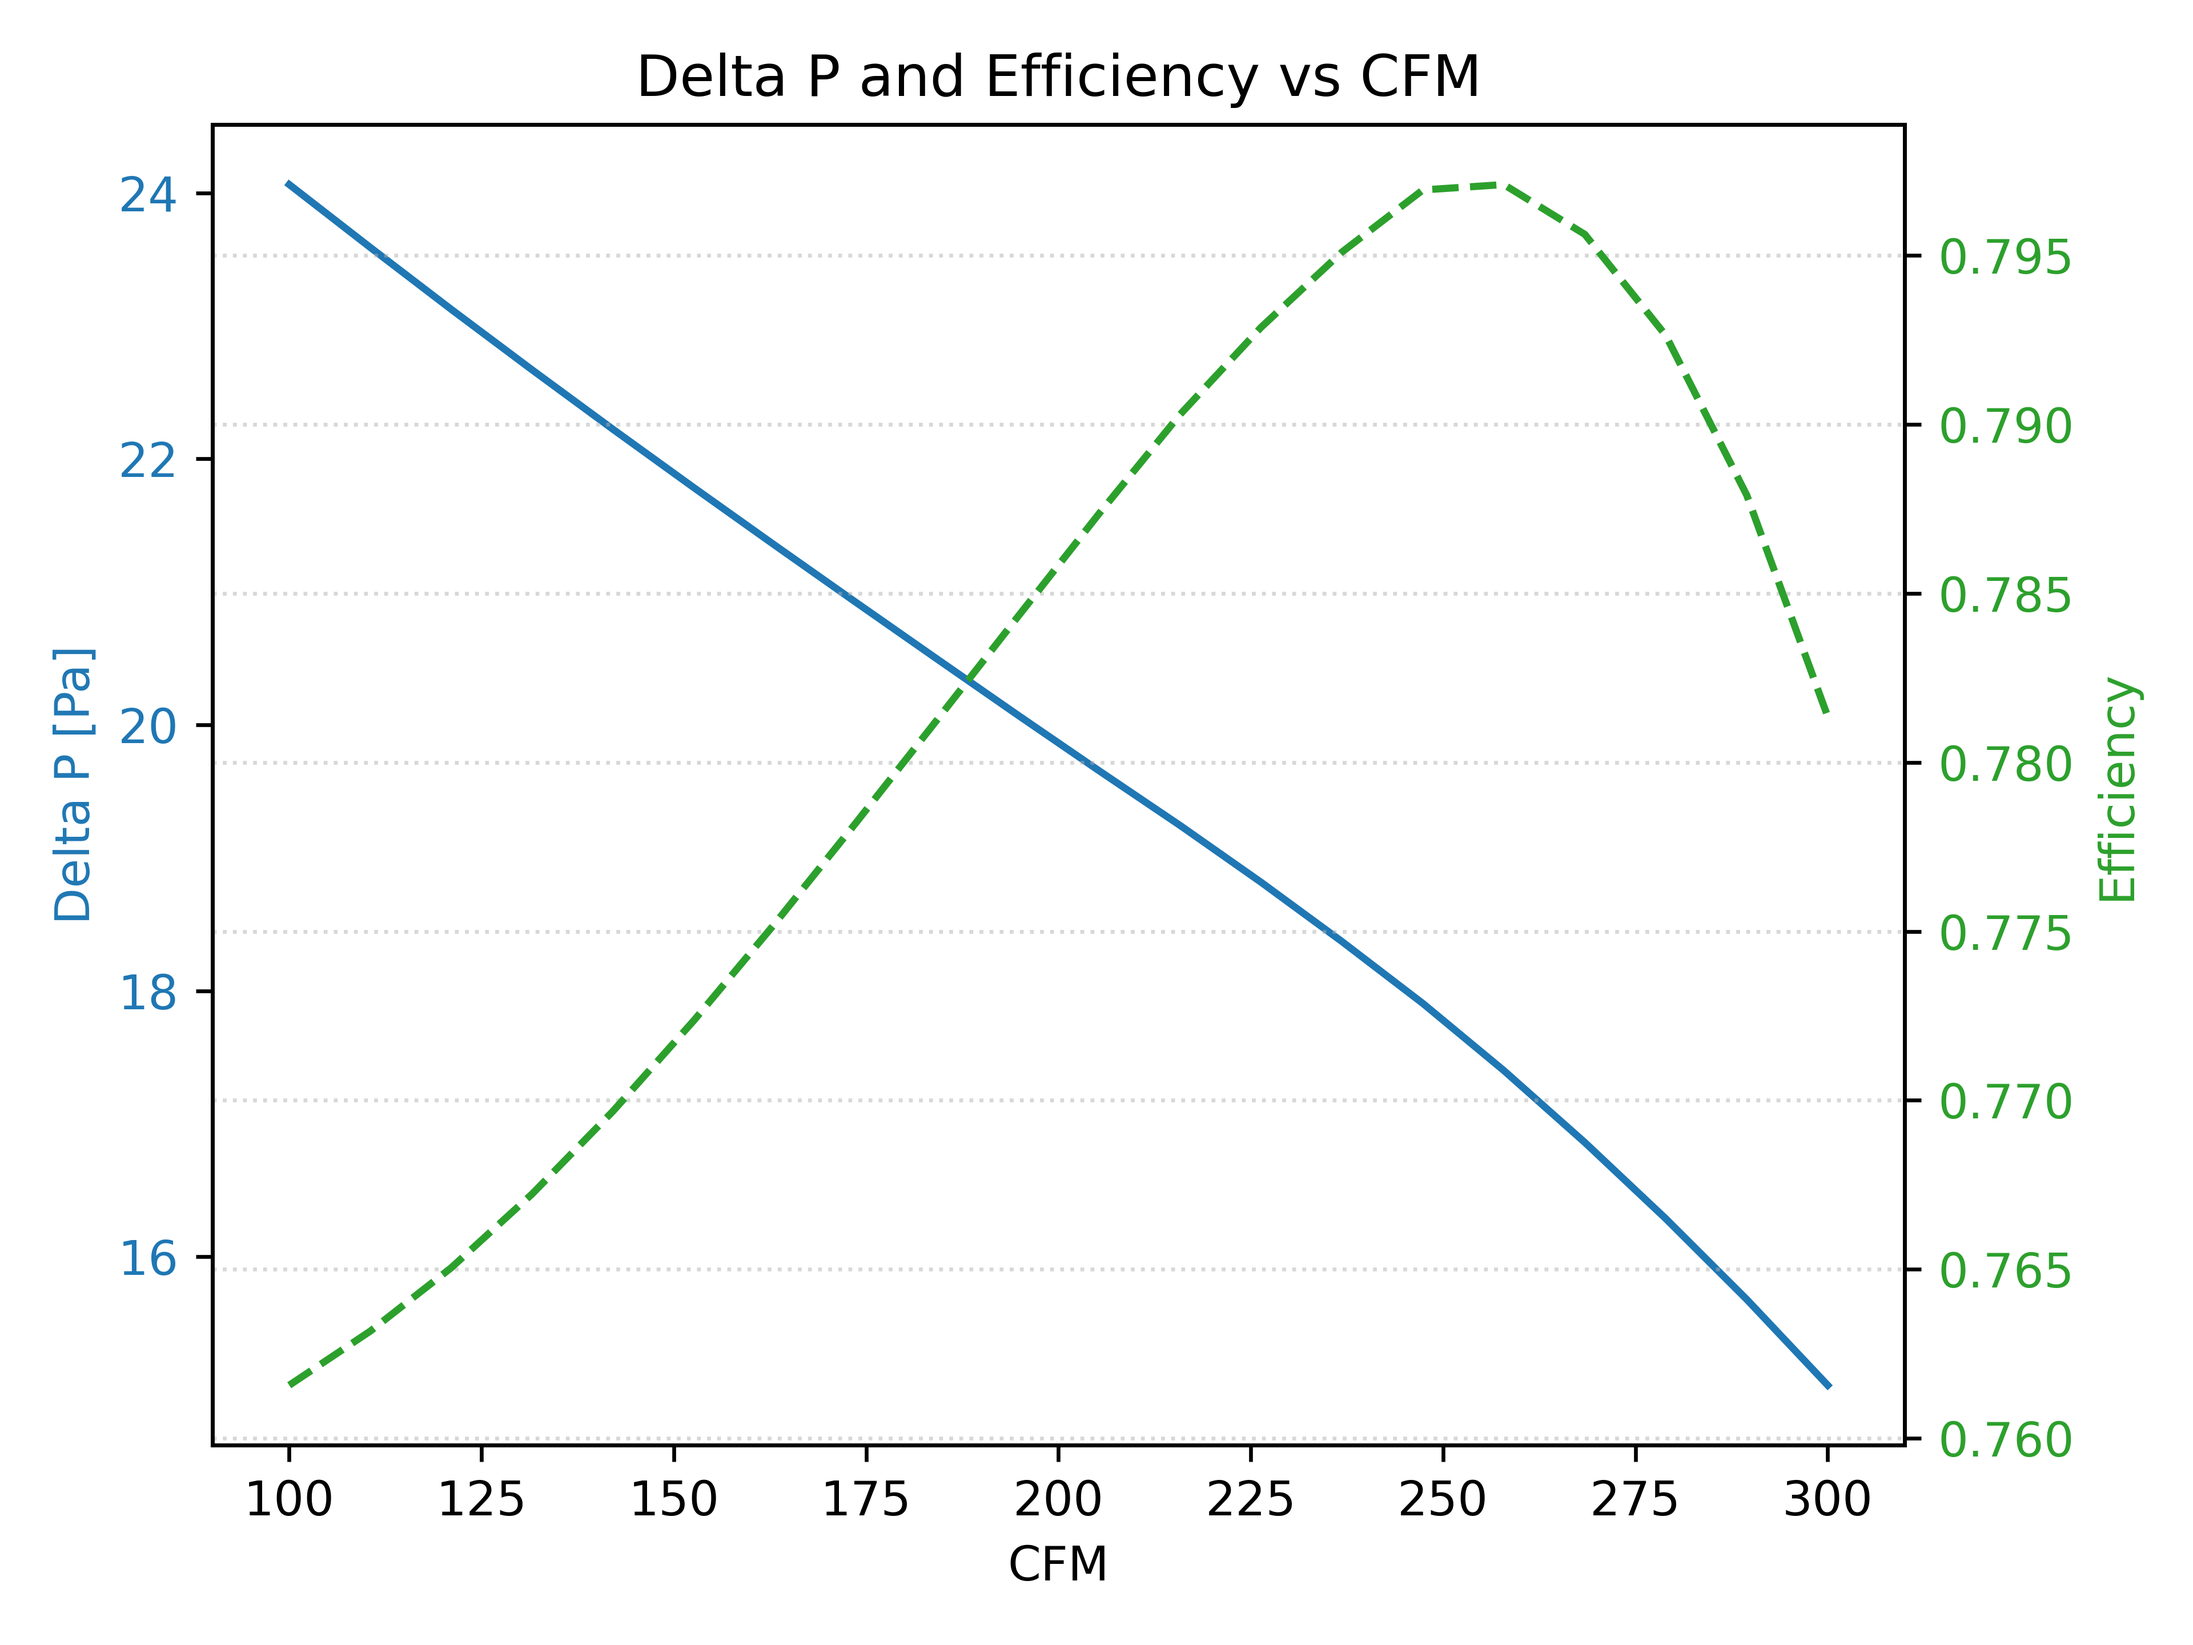
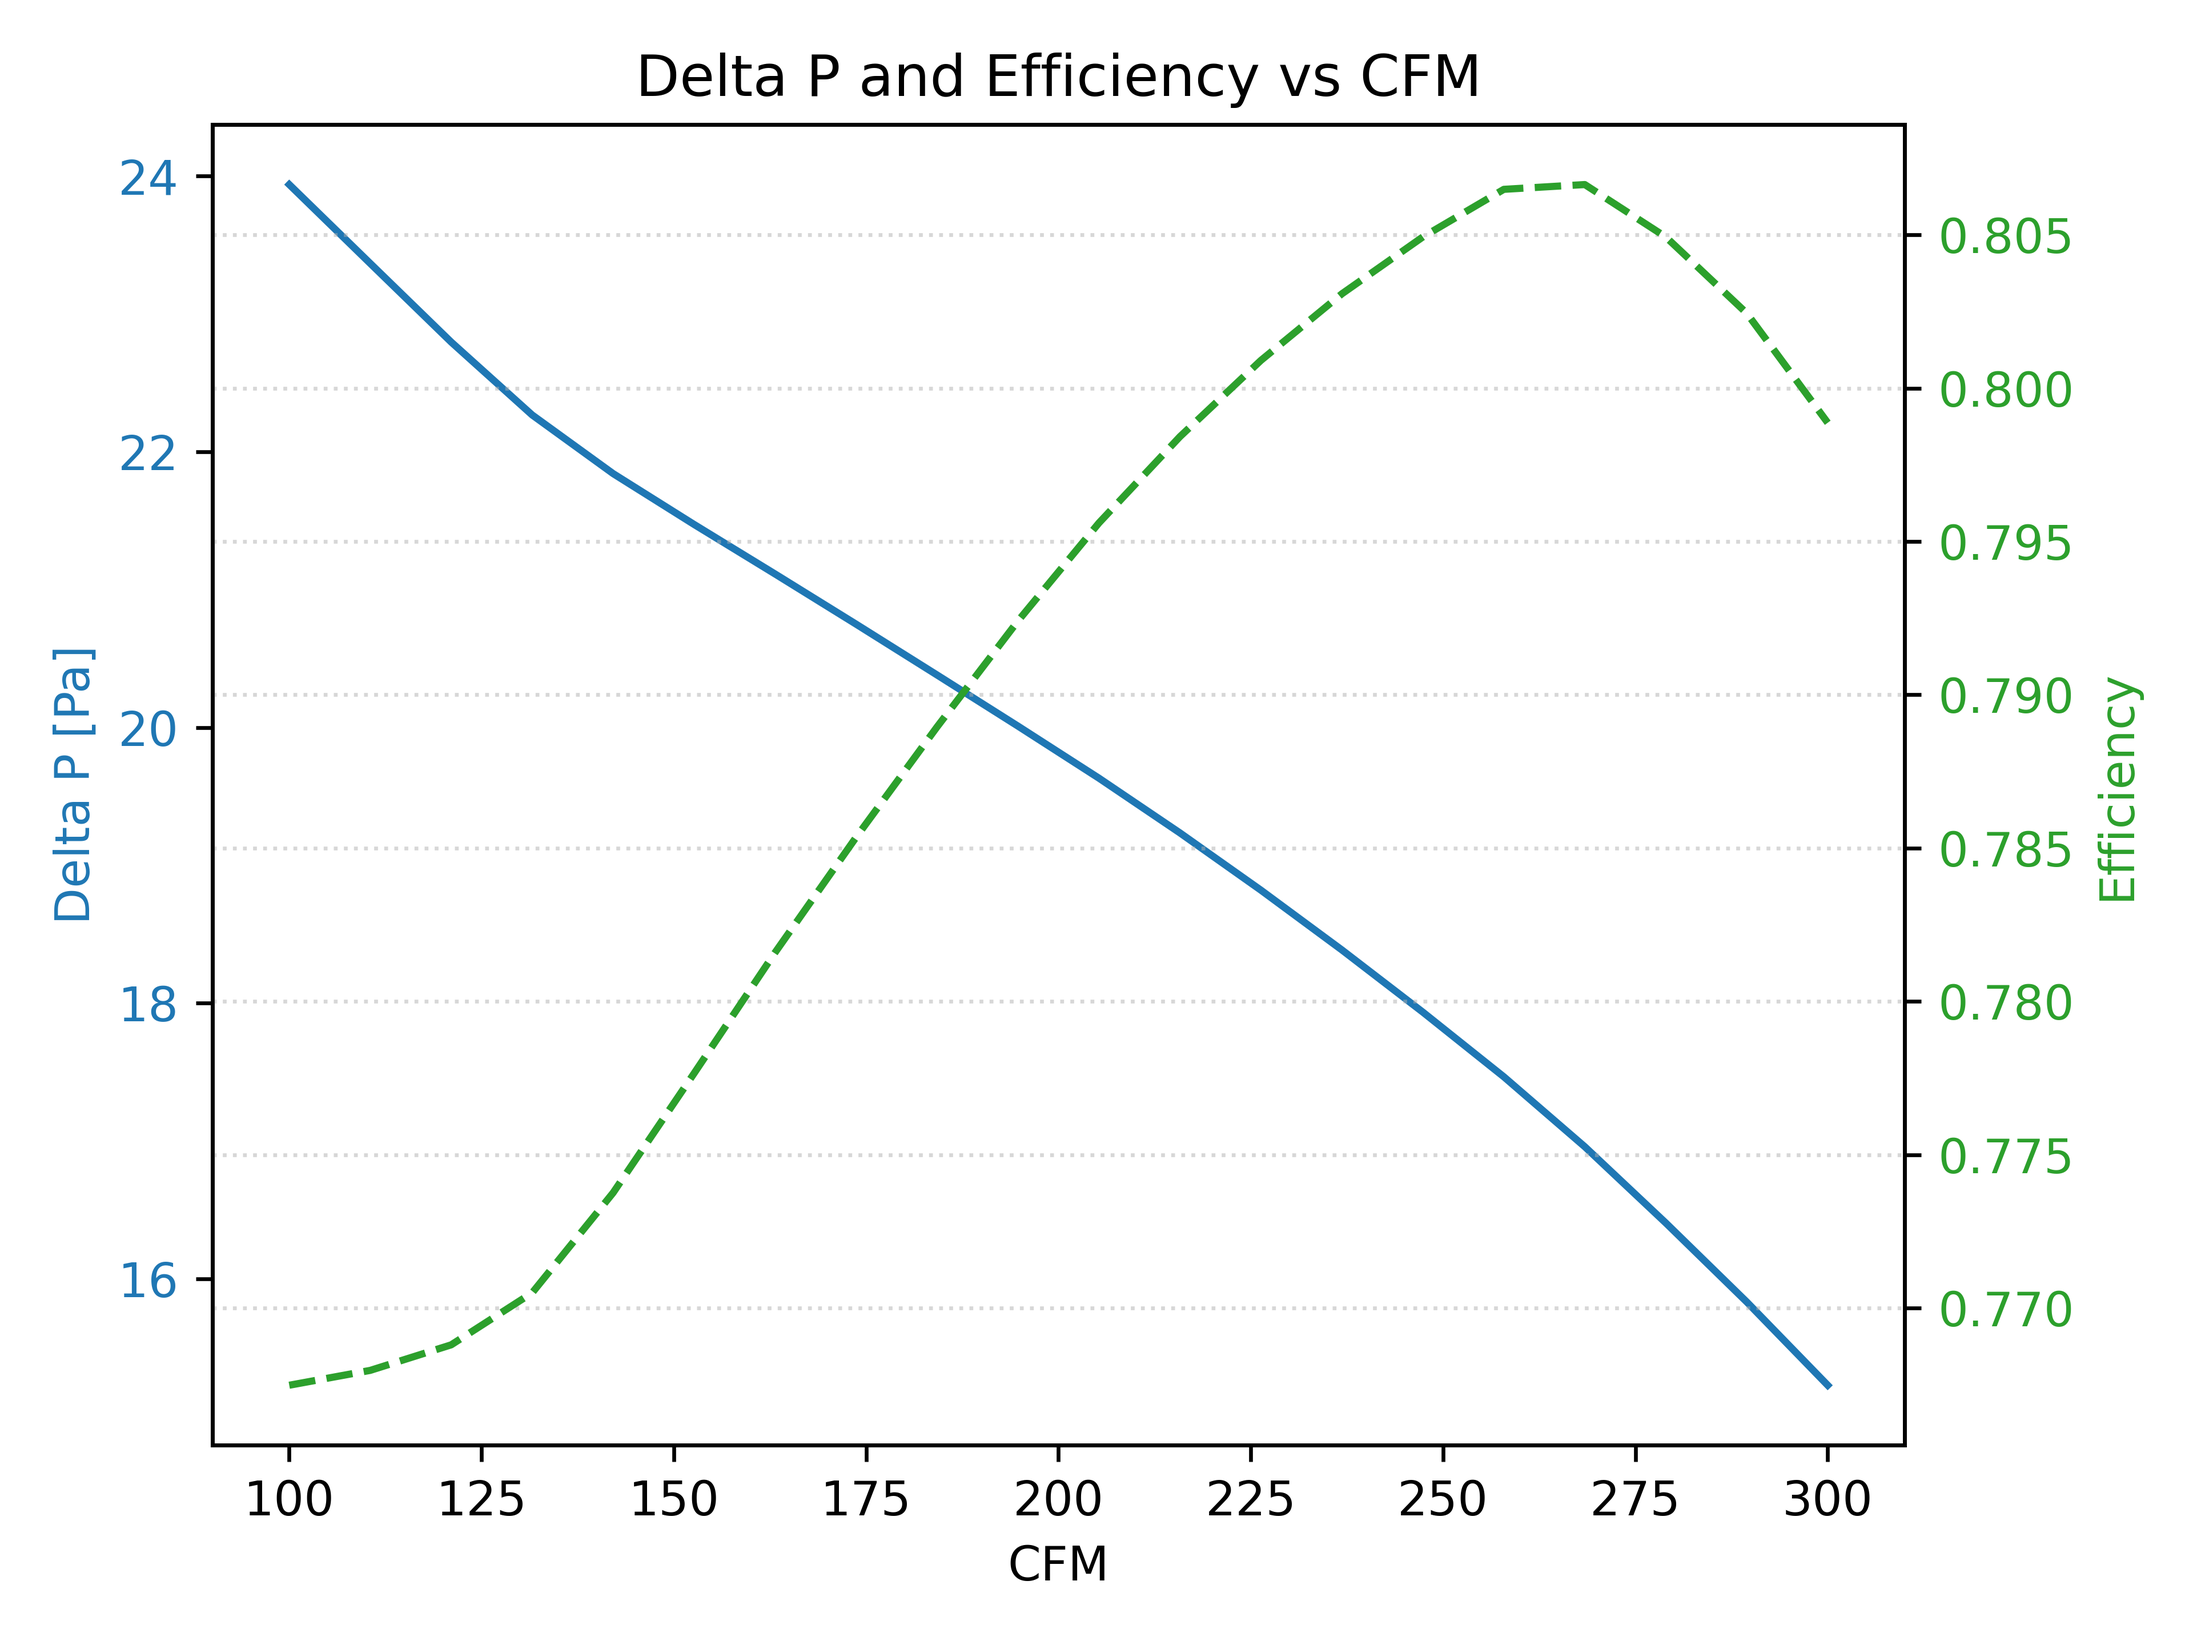
commit

diff --git a/optimize_spline.py b/optimize_spline.py
@@ -15,7 +15,7 @@ thickness_lb_factor = 1.5
 # ----------------------------------------------------------------------------
 # Hard-coded final tip twist (radians)
 # ----------------------------------------------------------------------------
-FINAL_TIP_ANGLE = np.deg2rad(22)
+FINAL_TIP_ANGLE = np.deg2rad(25)
 # ----------------------------------------------------------------------------
 # Scaling utilities
 # ----------------------------------------------------------------------------
@@ -180,7 +180,7 @@ def run_opt():
     dp_reg = (target_dp, 1e-1)      # (target, weight)
     RPM_reg = (1500.0, 0.0)        # (target, weight) 
 
-    n_spline_ctrl_pts_twist = 3
+    n_spline_ctrl_pts_twist = 4
     t0 = np.array([thickness/1.1, thickness/1.1, thickness/1.1])
     n_spline_ctrl_pts_t = t0.shape[0]
 

diff --git a/fan_eff_calc.py b/fan_eff_calc.py
@@ -17,13 +17,13 @@ hub_diameter = 0.085  # [m]
 thickness    = 0.025   # [m]
 od           = 0.20   # [m]
 Blades = 6
-RPM = 1333
+RPM = 1365
 
 # Twist (theta) control points (radians) for spline-based profile
-theta_ctrl = np.array([0.6727033,  0.48553873, 0.38397244])
+theta_ctrl = np.array([0.56812577, 0.4429515,  0.43633231])
 
 # Thickness control points (meters)
-t_ctrl = np.array([0.025,      0.02152978, 0.01923077])
+t_ctrl = np.array([0.015,      0.01806745, 0.0225])
 
 # Spanwise coordinates corresponding to control points (from hub to tip)
 r_ctrl_theta = np.linspace(hub_diameter / 2, od / 2, theta_ctrl.shape[0])
